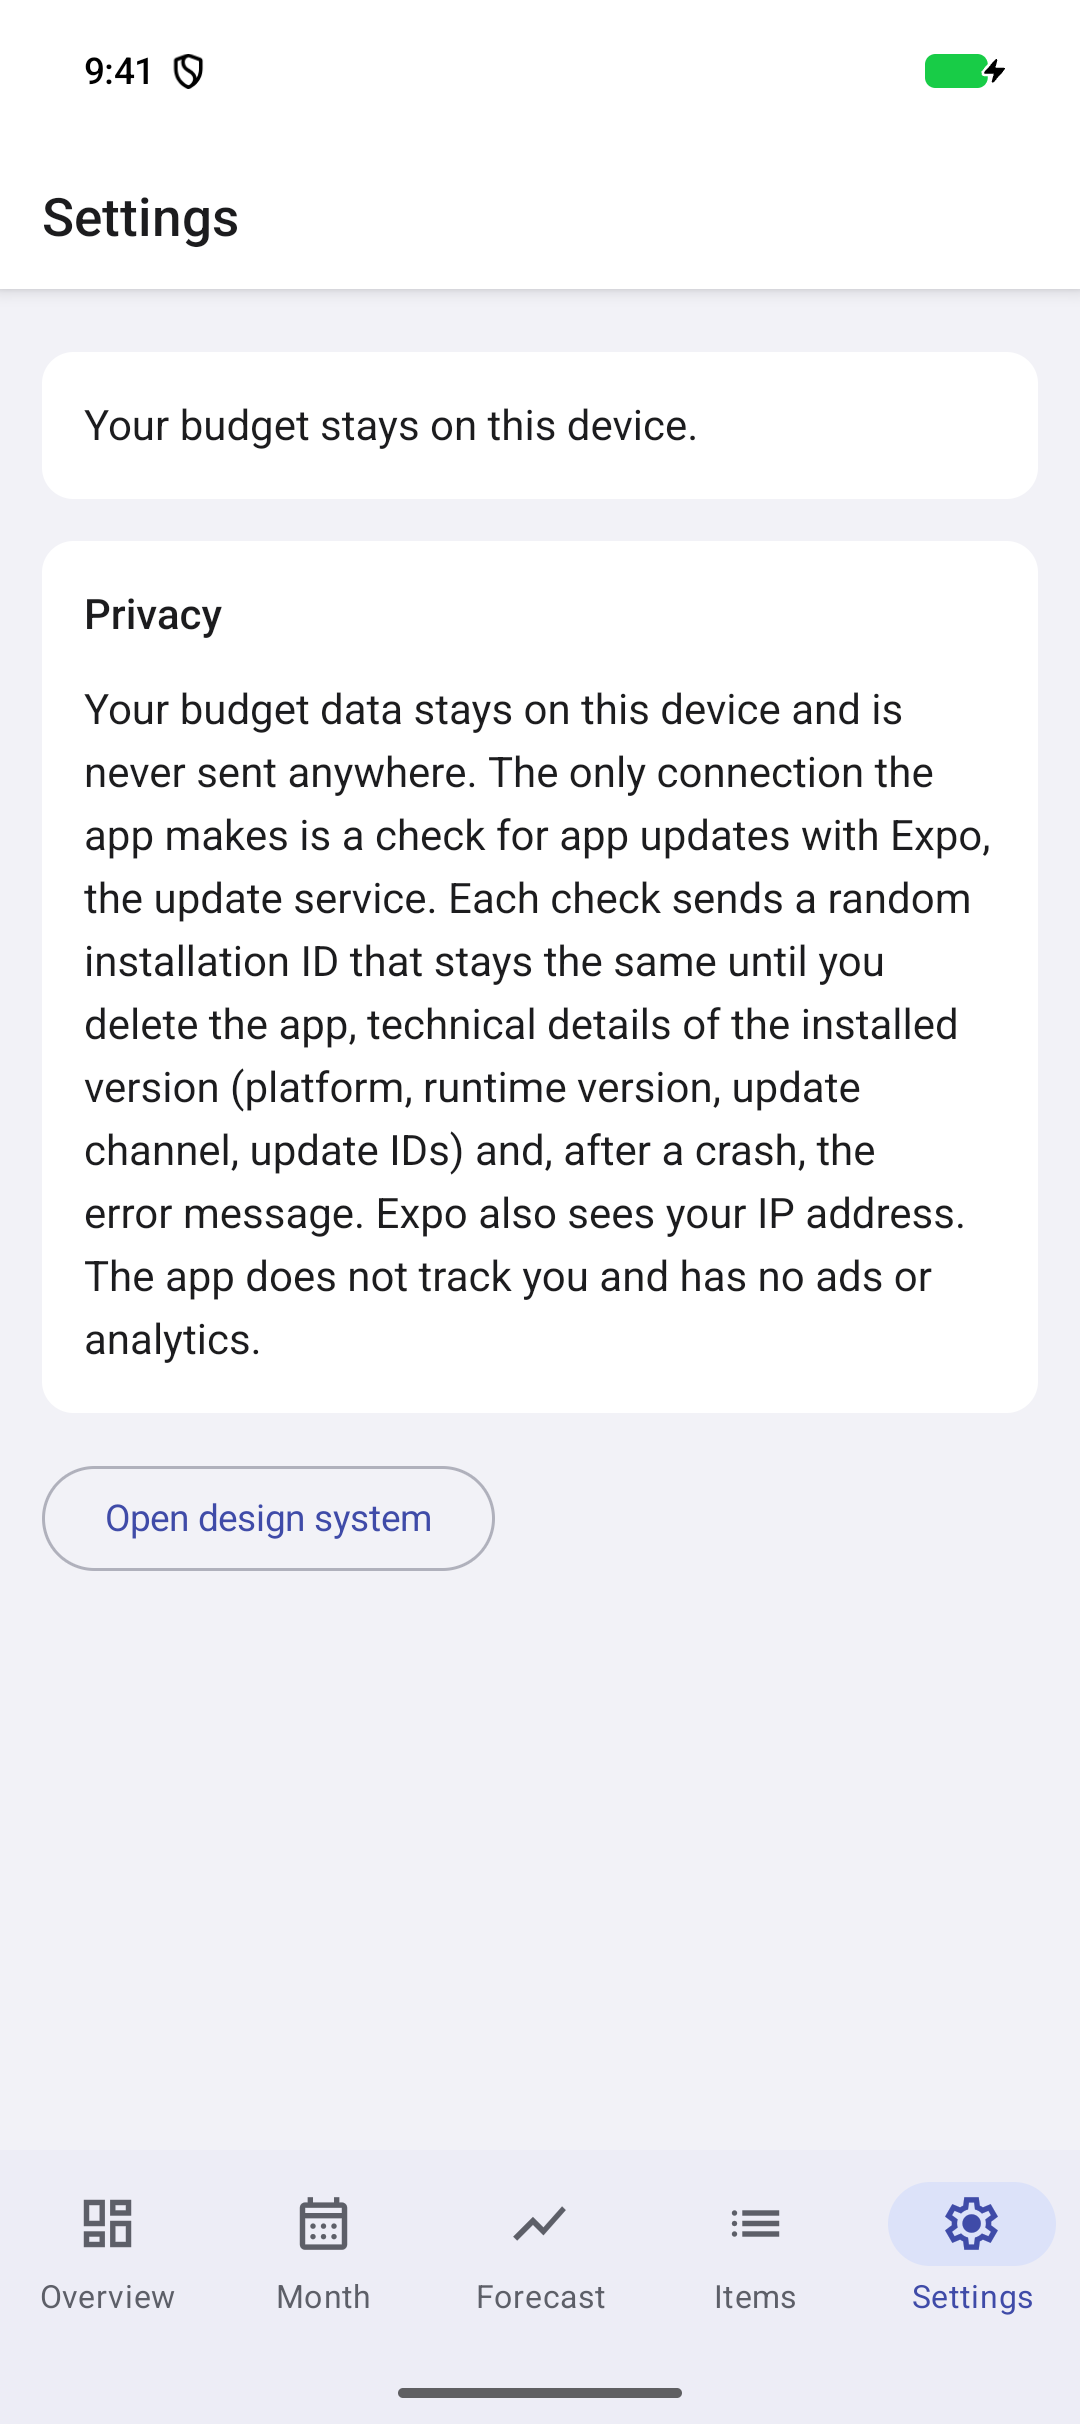
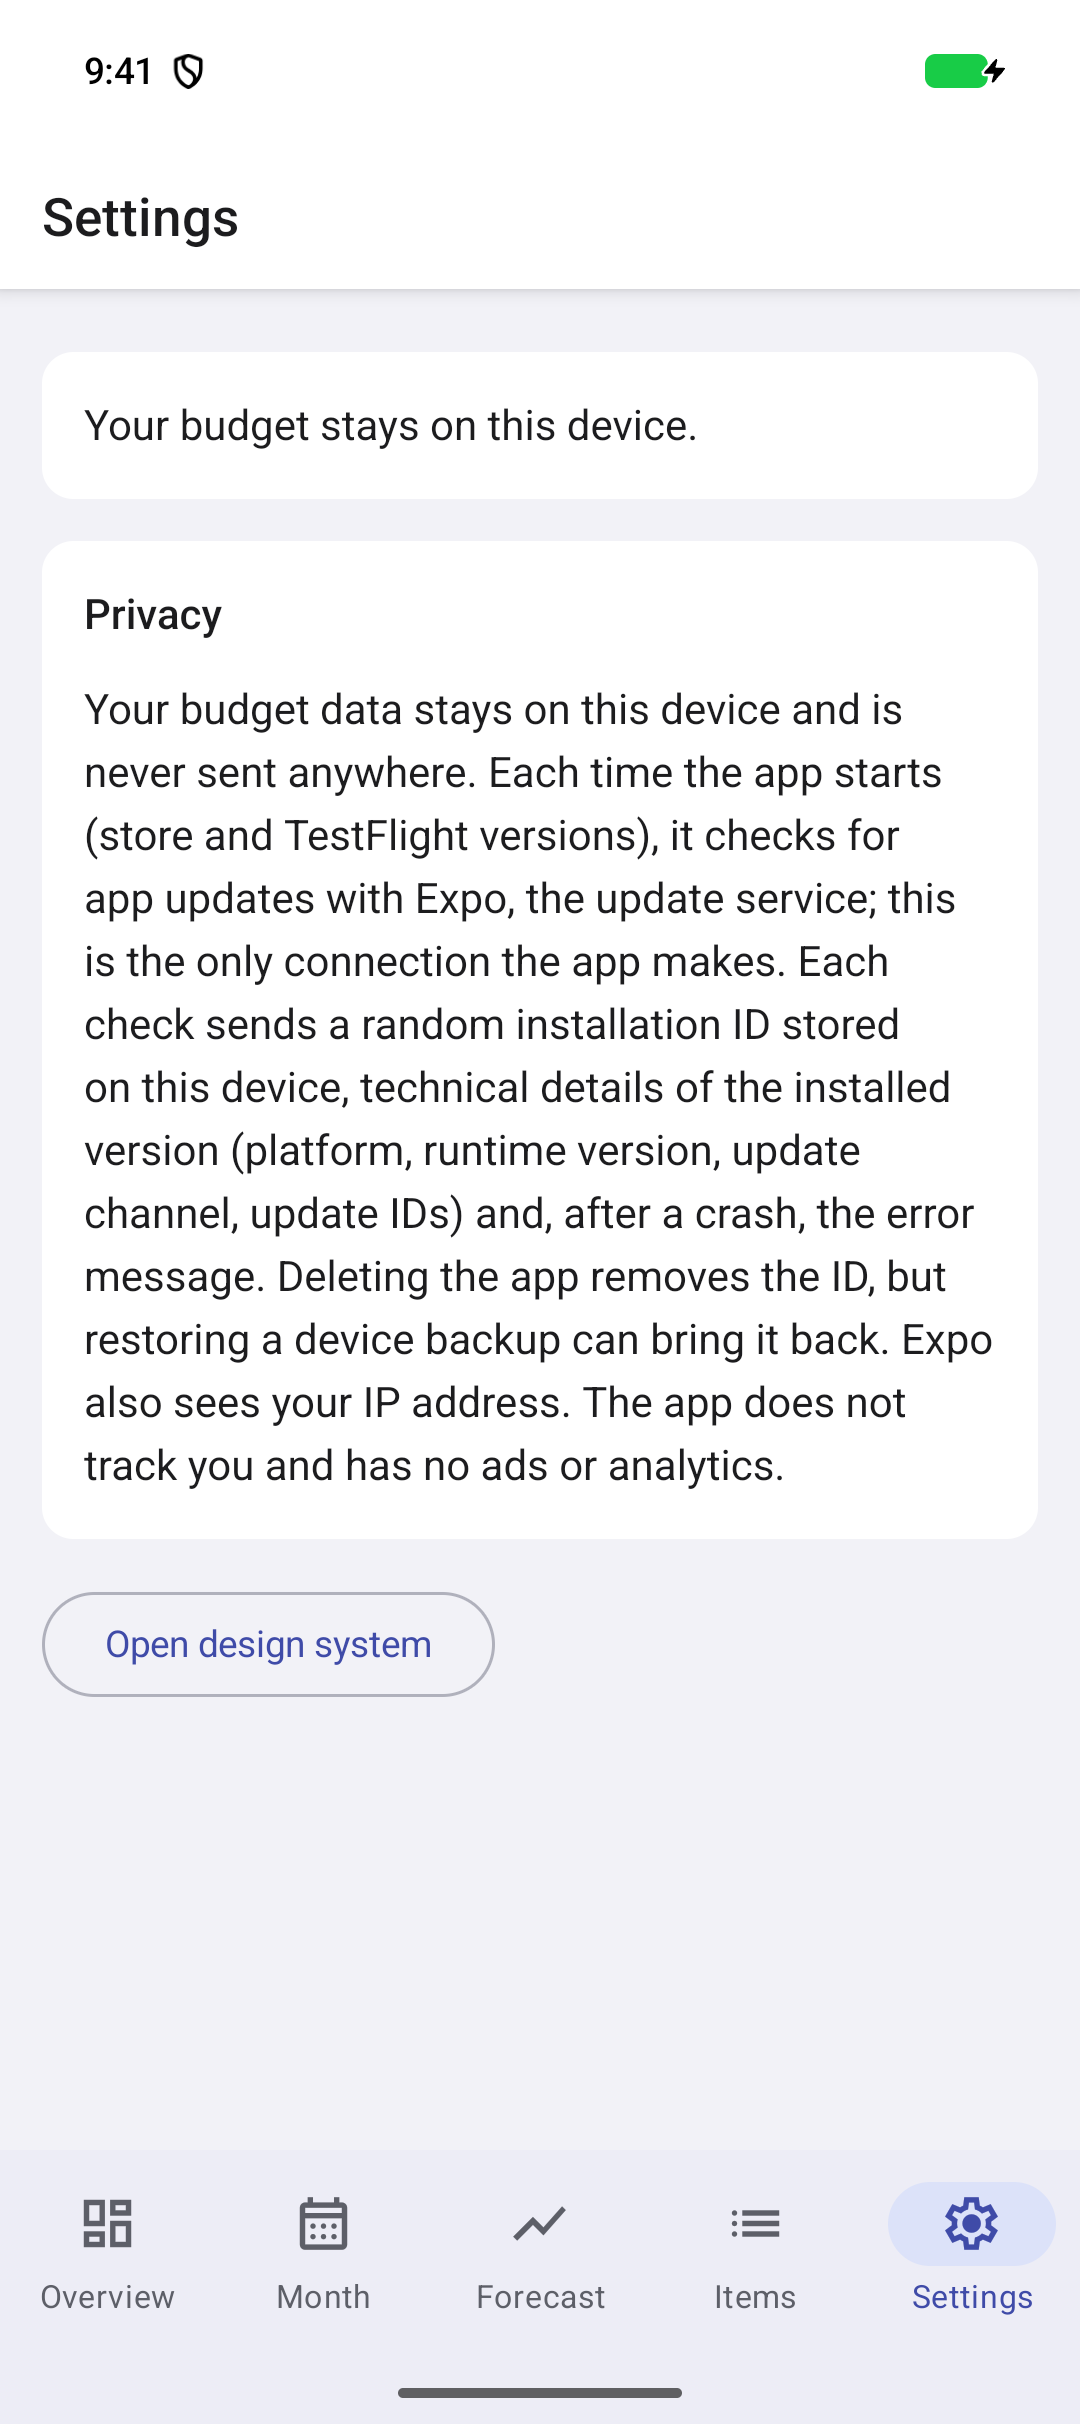
docs(evidence): refresh the Settings privacy screenshots after review round 1

Changed region(s): [[0.0611, 0.3094, 0.9167, 0.7116]]

diff --git a/docs/evidence/191/traces/ios-privacy-discloses-the-update-check.md b/docs/evidence/191/traces/ios-privacy-discloses-the-update-check.md
@@ -8,12 +8,12 @@ Ran on: platform `ios` · device `BudgetLens-CI`
 
 1. ✓ `app.open` (1.9s, video 0:00) — `e2e/privacy.e2e.ts:10`
 2. ✓ `expect.toBeVisible` `getByTestId("screen-home")` (1.9s, video 0:01) — `e2e/privacy.e2e.ts:11`
-   - expect passed after 2 reads in 1.9s: no node (0 matches) -&gt; at 1869ms default states (1 match)
+   - expect passed after 2 reads in 1.9s: no node (0 matches) -&gt; at 1870ms default states (1 match)
    - screen: 29 nodes at `com.budgetlens.offline / Overview`
-3. ✓ `locator.tap` `getByTestId("tab-settings")` (800ms, video 0:03) — `e2e/privacy.e2e.ts:14`
-   - tap tab "Settings" (800ms)
+3. ✓ `locator.tap` `getByTestId("tab-settings")` (798ms, video 0:03) — `e2e/privacy.e2e.ts:14`
+   - tap tab "Settings" (798ms)
    - screen: unchanged since step 2 at `com.budgetlens.offline / Overview`
-4. ✓ `expect.toBeVisible` `getByTestId("settings-privacy-updates")` (149ms, video 0:04) — `e2e/privacy.e2e.ts:17`
+4. ✓ `expect.toBeVisible` `getByTestId("settings-privacy-updates")` (140ms, video 0:04) — `e2e/privacy.e2e.ts:18`
    - screen: 20 changes since step 3 at `com.budgetlens.offline / Settings`, 31 nodes
      - `added navigation testid="Settings"`
      - `added text "Settings"`
@@ -21,16 +21,16 @@ Ran on: platform `ios` · device `BudgetLens-CI`
      - `added other testid="settings-privacy"`
      - `added text "Privacy"`
      - `added text "Privacy"`
-     - `added text "Your budget data stays on this device and is never sent anywhere. The only connection the app makes is a check for app updates with Expo, the update service. Each check sends a random ins…`
-     - `added text "Your budget data stays on this device and is never sent anywhere. The only connection the app makes is a check for app updates with Expo, the update service. Each check sends a random ins…`
+     - `added text "Your budget data stays on this device and is never sent anywhere. Each time the app starts (store and TestFlight versions), it checks for app updates with Expo, the update service; this i…`
+     - `added text "Your budget data stays on this device and is never sent anywhere. Each time the app starts (store and TestFlight versions), it checks for app updates with Expo, the update service; this i…`
      - `added button "Open design system" testid="settings-open-design-system"`
      - `added tab "Overview" testid="tab-overview"`
      - `added tab "Settings" testid="tab-settings" [selected]`
      - `removed navigation testid="Overview"`
      - 8 more
-5. ✓ `expect.toBeVisible` `getByText("Your budget data stays on this device and is never sent anywhere. The only connection the app makes is a check for app updates with Expo, the update service. Each check sends a random installation ID that stays the same until yo…` (138ms, video 0:04) — `e2e/privacy.e2e.ts:18`
+5. ✓ `expect.toHaveText` `getByTestId("settings-privacy-updates")` (131ms, video 0:04) — `e2e/privacy.e2e.ts:19`
    - screen: unchanged since step 4 at `com.budgetlens.offline / Settings`
-6. ✓ `app.screenshot` `settings-privacy` (657ms, video 0:04) — `e2e/privacy.e2e.ts:19`
+6. ✓ `app.screenshot` `settings-privacy` (650ms, video 0:04) — `e2e/privacy.e2e.ts:20`
    - [screenshot](attempt-1/screenshots/001-settings-privacy.png) `.e2e/ios/results/privacy-discloses-the-update-check-and-88eb6f66b83366bd/attempt-1/screenshots/001-settings-privacy.png`
 
 ## Evidence
@@ -38,4 +38,4 @@ Ran on: platform `ios` · device `BudgetLens-CI`
 - [screenshot](attempt-1/screenshots/001-settings-privacy.png) `.e2e/ios/results/privacy-discloses-the-update-check-and-88eb6f66b83366bd/attempt-1/screenshots/001-settings-privacy.png`
 - [video](attempt-1/video/video.mp4) `.e2e/ios/results/privacy-discloses-the-update-check-and-88eb6f66b83366bd/attempt-1/video/video.mp4`
 
-<sub>e2e 0.21.2 · run `01a15a7b-09a8-75ca-8541-7caf2df8e582` · the whole run is in `report.json`</sub>
+<sub>e2e 0.21.2 · run `01a15a95-31ac-795d-bc0f-7a760536f326` · the whole run is in `report.json`</sub>

diff --git a/docs/evidence/191/traces/android-privacy-discloses-the-update-check.md b/docs/evidence/191/traces/android-privacy-discloses-the-update-check.md
@@ -1,25 +1,25 @@
 # ✓ discloses the update check and installation ID in Settings
 
-`e2e/privacy.e2e.ts` · target `android` · passed · 6.0s
+`e2e/privacy.e2e.ts` · target `android` · passed · 5.9s
 
 Ran on: platform `android` · device `BudgetLens-Android`
 
 ## Steps
 
-1. ✓ `app.open` (1.4s) — `e2e/privacy.e2e.ts:10`
-2. ✓ `expect.toBeVisible` `getByTestId("screen-home")` (2.6s) — `e2e/privacy.e2e.ts:11`
-   - expect passed after 15 reads in 2.6s: no node (0 matches) x14 -&gt; at 2626ms default states (1 match)
+1. ✓ `app.open` (1.3s) — `e2e/privacy.e2e.ts:10`
+2. ✓ `expect.toBeVisible` `getByTestId("screen-home")` (2.8s) — `e2e/privacy.e2e.ts:11`
+   - expect passed after 16 reads in 2.8s: no node (0 matches) x15 -&gt; at 2802ms default states (1 match)
    - screen: 53 nodes at `com.budgetlens.offline`
-3. ✓ `locator.tap` `getByTestId("tab-settings")` (307ms) — `e2e/privacy.e2e.ts:14`
-   - tap tab "Settings" (307ms)
+3. ✓ `locator.tap` `getByTestId("tab-settings")` (303ms) — `e2e/privacy.e2e.ts:14`
+   - tap tab "Settings" (303ms)
    - screen: unchanged since step 2 at `com.budgetlens.offline`
-4. ✓ `expect.toBeVisible` `getByTestId("settings-privacy-updates")` (182ms) — `e2e/privacy.e2e.ts:17`
+4. ✓ `expect.toBeVisible` `getByTestId("settings-privacy-updates")` (92ms) — `e2e/privacy.e2e.ts:18`
    - screen: 21 changes since step 3 at `com.budgetlens.offline`, 54 nodes
      - `added text "Settings"`
      - `added group testid="screen-settings"`
      - `added group testid="settings-privacy"`
      - `added heading "Privacy"`
-     - `added text "Your budget data stays on this device and is never sent anywhere. The only connection the app makes is a check for app updates with Expo, the update service. Each check sends a random ins…`
+     - `added text "Your budget data stays on this device and is never sent anywhere. Each time the app starts (store and TestFlight versions), it checks for app updates with Expo, the update service; this i…`
      - `added group testid="settings-open-design-system"`
      - `added text "Open design system"`
      - `added tab "Overview" testid="tab-overview"`
@@ -28,13 +28,13 @@ Ran on: platform `android` · device `BudgetLens-Android`
      - `added text "Settings" testid="com.budgetlens.offline:id/navigation_bar_item_large_label_view" [selected]`
      - `removed text "Overview"`
      - 9 more
-5. ✓ `expect.toBeVisible` `getByText("Your budget data stays on this device and is never sent anywhere. The only connection the app makes is a check for app updates with Expo, the update service. Each check sends a random installation ID that stays the same until yo…` (133ms) — `e2e/privacy.e2e.ts:18`
+5. ✓ `expect.toHaveText` `getByTestId("settings-privacy-updates")` (104ms) — `e2e/privacy.e2e.ts:19`
    - screen: unchanged since step 4 at `com.budgetlens.offline`
-6. ✓ `app.screenshot` `settings-privacy` (1.4s) — `e2e/privacy.e2e.ts:19`
+6. ✓ `app.screenshot` `settings-privacy` (1.4s) — `e2e/privacy.e2e.ts:20`
    - [screenshot](attempt-1/screenshots/001-settings-privacy.png) `.e2e/android/results/privacy-discloses-the-update-check-and-32e006fb0e9f38dd/attempt-1/screenshots/001-settings-privacy.png`
 
 ## Evidence
 
 - [screenshot](attempt-1/screenshots/001-settings-privacy.png) `.e2e/android/results/privacy-discloses-the-update-check-and-32e006fb0e9f38dd/attempt-1/screenshots/001-settings-privacy.png`
 
-<sub>e2e 0.21.2 · run `01a15a7e-c431-7c74-8783-ad461b42db95` · the whole run is in `report.json`</sub>
+<sub>e2e 0.21.2 · run `01a15a99-0009-75e9-95f4-8a9b4e54e6e7` · the whole run is in `report.json`</sub>

diff --git a/docs/evidence/191/README.md b/docs/evidence/191/README.md
@@ -3,17 +3,17 @@
 Captured on 2026-10-20 from the Expo SDK 58 development builds using TesterArmy e2e 0.21.2 with
 `@e2e-dev/mobile` 0.12.3, Metro on the fixed port 8073 and `E2E_TELEMETRY_DISABLED=1`. Only the dedicated
 simulator and emulator were used (status bar clock 9:41). No agent steps, model provider or credentials. App code at
-`ba73af2` (the following commit changes docs only).
+`8ebafdb` (after review round 1; both reports `dirty: false`, the following commit only adds this evidence).
 
 | Run | Device | Result | Run ID |
 | --- | --- | --- | --- |
-| `pnpm e2e:ios` | dedicated iOS simulator (`E2E_IOS_SIMULATOR`) | 18 passed, 3 skipped (large text) | `01a15a7b-09a8-75ca-8541-7caf2df8e582` |
-| `pnpm e2e:android` | dedicated Android emulator (`E2E_ANDROID_AVD`) | 18 passed, 3 skipped (large text) | `01a15a7e-c431-7c74-8783-ad461b42db95` |
+| `pnpm e2e:ios` | dedicated iOS simulator (`E2E_IOS_SIMULATOR`) | 18 passed, 3 skipped (large text) | `01a15a95-31ac-795d-bc0f-7a760536f326` |
+| `pnpm e2e:android` | dedicated Android emulator (`E2E_ANDROID_AVD`) | 18 passed, 3 skipped (large text) | `01a15a99-0009-75e9-95f4-8a9b4e54e6e7` |
 
-The new test `e2e/privacy.e2e.ts` opens Settings and checks that the *Privacy* card (`settings-privacy-updates`)
-shows the full English `privacy.updates` text. The screenshots are its unmodified `app.screenshot()` output; the
+The new test `e2e/privacy.e2e.ts` opens Settings and selects the *Privacy* text by its test ID
+(`settings-privacy-updates`) and asserts that the element has the full English `privacy.updates` text (`toHaveText`). The screenshots are its unmodified `app.screenshot()` output; the
 [traces](traces/) are its per-test `trace.md` files.
 
 | Screenshot | iOS | Android |
 | --- | --- | --- |
-| Settings with the *Privacy* card (EAS Update check, installation ID, technical details, crash message, IP address) | [ios](ios-settings-privacy.png) | [android](android-settings-privacy.png) |
+| Settings with the *Privacy* card (update check on every start, installation ID and backup restore, technical details, crash message, IP address) | [ios](ios-settings-privacy.png) | [android](android-settings-privacy.png) |
